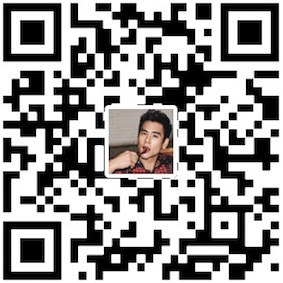
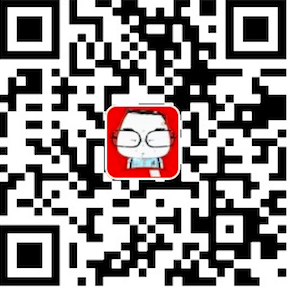
Site updated: 2017-06-27 22:04:55

diff --git a/about/index.html b/about/index.html
@@ -3,7 +3,7 @@
   <head>
   <meta http-equiv="content-type" content="text/html; charset=utf-8">
   <meta content="width=device-width, initial-scale=1.0, maximum-scale=1.0, user-scalable=0" name="viewport">
-  <meta name="description" content="yanm1ng&#39;s blog">
+  <meta name="description" content="Pocho&#39;s blog">
   <meta name="keyword" content="hexo-theme, vuejs">
   <title>
     
@@ -107,14 +107,35 @@
     <div id="about-banner" style="background-image: url(http://file.muyutech.com/about.jpg)"></div>
 <div class="author">
   <div class="head">
-    <img src="https://avatars3.githubusercontent.com/u/16443628?v=3&s=460" />
+    <img src="http://os6x2lkl6.bkt.clouddn.com/IMG_0338.JPG" />
   </div>
   <h3>Pocho</h3>
   <p class="discription">The end is always near.</p>
   <section class="share-icons">
     
+      <a class="icon-weibo" href="http://weibo.com/5106580481" target="_blank">
+        <span class="fa-stack fa-lg">
+          <i class="fa fa-circle fa-stack-2x"></i>
+          <i class="fa fa-weibo fa-stack-1x fa-inverse"></i>
+        </span>
+      </a>
     
     
+    
+      <a class="icon-github" href="https://github.com/Pochodaydayup" target="_blank">
+        <span class="fa-stack fa-lg">
+          <i class="fa fa-circle fa-stack-2x"></i>
+          <i class="fa fa-github fa-stack-1x fa-inverse"></i>
+        </span>
+      </a>
+    
+    
+      <a class="icon-zhihu" href="https://www.zhihu.com/people/zhou-peng-cheng-28" target="_blank">
+        <span class="fa-stack fa-lg">
+          <i class="fa fa-circle fa-stack-2x"></i>
+          <i class="fa fa-stack-1x fa-inverse">知</i>
+        </span>
+      </a>
     
   </section>
 </div>
@@ -139,7 +160,7 @@
   <p class="copyright">
     &copy; 2017 | Proudly powered by <a href="https://hexo.io" target="_blank">Hexo</a>
     <br>
-    Theme by <a href="https://github.com/yanm1ng">yanm1ng</a>
+    Theme by <a href="https://github.com/Pochodaydayup">Pocho</a>
   </p>
 </footer>
 

diff --git a/project/index.html b/project/index.html
@@ -3,7 +3,7 @@
   <head>
   <meta http-equiv="content-type" content="text/html; charset=utf-8">
   <meta content="width=device-width, initial-scale=1.0, maximum-scale=1.0, user-scalable=0" name="viewport">
-  <meta name="description" content="yanm1ng&#39;s blog">
+  <meta name="description" content="Pocho&#39;s blog">
   <meta name="keyword" content="hexo-theme, vuejs">
   <title>
     
@@ -122,7 +122,7 @@
         Accept: 'application/vnd.github.v3.raw'
       },
       type: 'get',
-      url: 'https://api.github.com/users/undefined/repos',
+      url: 'https://api.github.com/users/Pochodaydayup/repos',
       success: function (data) {
         var repos = data.sort(function(a, b) {
           return (b.stargazers_count - a.stargazers_count)
@@ -158,7 +158,7 @@
   <p class="copyright">
     &copy; 2017 | Proudly powered by <a href="https://hexo.io" target="_blank">Hexo</a>
     <br>
-    Theme by <a href="https://github.com/yanm1ng">yanm1ng</a>
+    Theme by <a href="https://github.com/Pochodaydayup">Pocho</a>
   </p>
 </footer>
 

diff --git a/2017/06/27/hello-world/index.html b/2017/06/27/hello-world/index.html
@@ -3,7 +3,7 @@
   <head>
   <meta http-equiv="content-type" content="text/html; charset=utf-8">
   <meta content="width=device-width, initial-scale=1.0, maximum-scale=1.0, user-scalable=0" name="viewport">
-  <meta name="description" content="yanm1ng&#39;s blog">
+  <meta name="description" content="Pocho&#39;s blog">
   <meta name="keyword" content="hexo-theme, vuejs">
   <title>
     
@@ -200,7 +200,7 @@
   <p class="copyright">
     &copy; 2017 | Proudly powered by <a href="https://hexo.io" target="_blank">Hexo</a>
     <br>
-    Theme by <a href="https://github.com/yanm1ng">yanm1ng</a>
+    Theme by <a href="https://github.com/Pochodaydayup">Pocho</a>
   </p>
 </footer>
 

diff --git a/archives/2017/06/index.html b/archives/2017/06/index.html
@@ -3,7 +3,7 @@
   <head>
   <meta http-equiv="content-type" content="text/html; charset=utf-8">
   <meta content="width=device-width, initial-scale=1.0, maximum-scale=1.0, user-scalable=0" name="viewport">
-  <meta name="description" content="yanm1ng&#39;s blog">
+  <meta name="description" content="Pocho&#39;s blog">
   <meta name="keyword" content="hexo-theme, vuejs">
   <title>
     
@@ -143,7 +143,7 @@
   <p class="copyright">
     &copy; 2017 | Proudly powered by <a href="https://hexo.io" target="_blank">Hexo</a>
     <br>
-    Theme by <a href="https://github.com/yanm1ng">yanm1ng</a>
+    Theme by <a href="https://github.com/Pochodaydayup">Pocho</a>
   </p>
 </footer>
 

diff --git a/archives/2017/index.html b/archives/2017/index.html
@@ -3,7 +3,7 @@
   <head>
   <meta http-equiv="content-type" content="text/html; charset=utf-8">
   <meta content="width=device-width, initial-scale=1.0, maximum-scale=1.0, user-scalable=0" name="viewport">
-  <meta name="description" content="yanm1ng&#39;s blog">
+  <meta name="description" content="Pocho&#39;s blog">
   <meta name="keyword" content="hexo-theme, vuejs">
   <title>
     
@@ -143,7 +143,7 @@
   <p class="copyright">
     &copy; 2017 | Proudly powered by <a href="https://hexo.io" target="_blank">Hexo</a>
     <br>
-    Theme by <a href="https://github.com/yanm1ng">yanm1ng</a>
+    Theme by <a href="https://github.com/Pochodaydayup">Pocho</a>
   </p>
 </footer>
 

diff --git a/archives/index.html b/archives/index.html
@@ -3,7 +3,7 @@
   <head>
   <meta http-equiv="content-type" content="text/html; charset=utf-8">
   <meta content="width=device-width, initial-scale=1.0, maximum-scale=1.0, user-scalable=0" name="viewport">
-  <meta name="description" content="yanm1ng&#39;s blog">
+  <meta name="description" content="Pocho&#39;s blog">
   <meta name="keyword" content="hexo-theme, vuejs">
   <title>
     
@@ -143,7 +143,7 @@
   <p class="copyright">
     &copy; 2017 | Proudly powered by <a href="https://hexo.io" target="_blank">Hexo</a>
     <br>
-    Theme by <a href="https://github.com/yanm1ng">yanm1ng</a>
+    Theme by <a href="https://github.com/Pochodaydayup">Pocho</a>
   </p>
 </footer>
 

diff --git a/index.html b/index.html
@@ -3,7 +3,7 @@
   <head>
   <meta http-equiv="content-type" content="text/html; charset=utf-8">
   <meta content="width=device-width, initial-scale=1.0, maximum-scale=1.0, user-scalable=0" name="viewport">
-  <meta name="description" content="yanm1ng&#39;s blog">
+  <meta name="description" content="Pocho&#39;s blog">
   <meta name="keyword" content="hexo-theme, vuejs">
   <title>
     
@@ -132,7 +132,7 @@
   <p class="copyright">
     &copy; 2017 | Proudly powered by <a href="https://hexo.io" target="_blank">Hexo</a>
     <br>
-    Theme by <a href="https://github.com/yanm1ng">yanm1ng</a>
+    Theme by <a href="https://github.com/Pochodaydayup">Pocho</a>
   </p>
 </footer>
 

diff --git a/tags/index.html b/tags/index.html
@@ -3,7 +3,7 @@
   <head>
   <meta http-equiv="content-type" content="text/html; charset=utf-8">
   <meta content="width=device-width, initial-scale=1.0, maximum-scale=1.0, user-scalable=0" name="viewport">
-  <meta name="description" content="yanm1ng&#39;s blog">
+  <meta name="description" content="Pocho&#39;s blog">
   <meta name="keyword" content="hexo-theme, vuejs">
   <title>
     
@@ -129,7 +129,7 @@
   <p class="copyright">
     &copy; 2017 | Proudly powered by <a href="https://hexo.io" target="_blank">Hexo</a>
     <br>
-    Theme by <a href="https://github.com/yanm1ng">yanm1ng</a>
+    Theme by <a href="https://github.com/Pochodaydayup">Pocho</a>
   </p>
 </footer>
 
